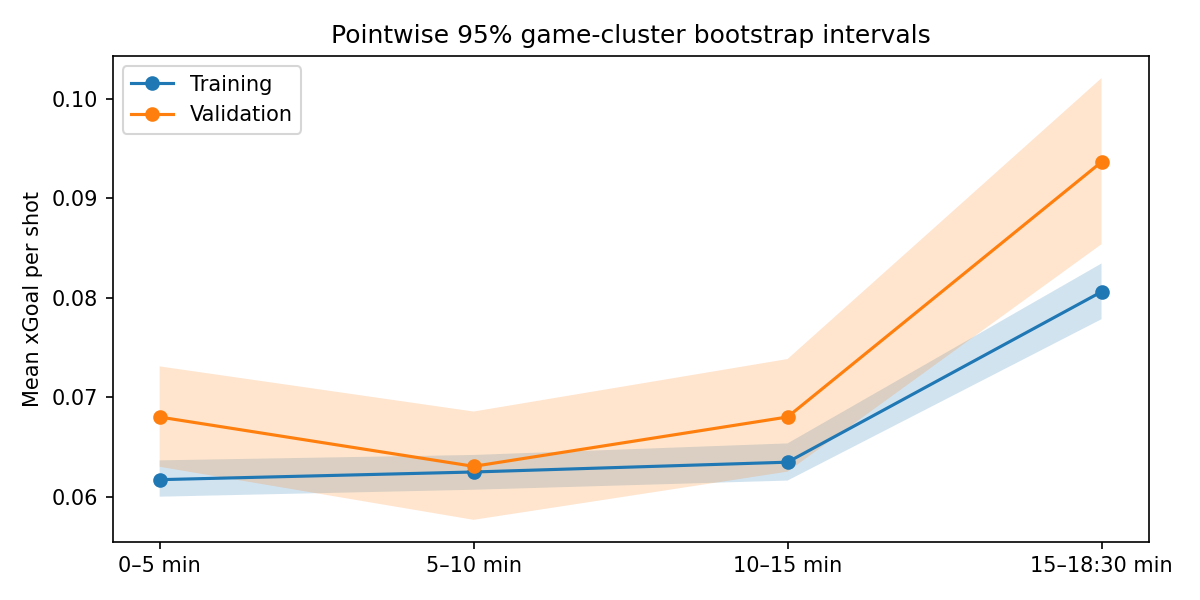
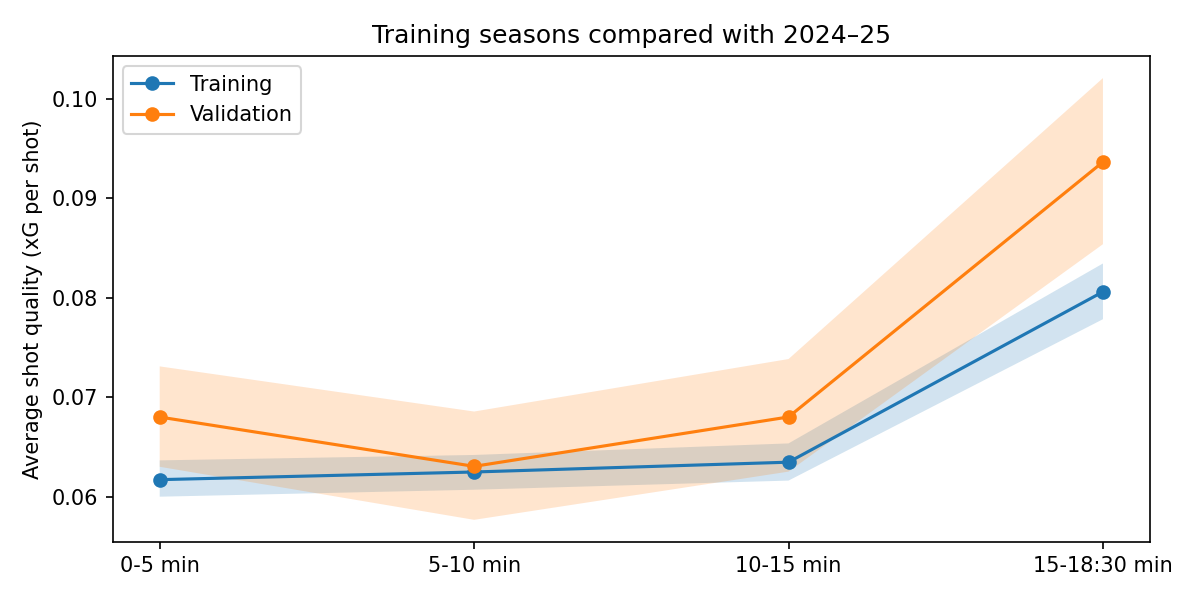
Use plain language in plot titles and labels

diff --git a/src/talk_sensitivity.py b/src/talk_sensitivity.py
@@ -134,8 +134,8 @@ def analyze(full, output):
     x = np.arange(len(WINDOW_LABELS))
     width = 0.36
     fig, ax = plt.subplots(figsize=(8.5, 4.8))
-    b1 = ax.bar(x - width / 2, vol_pct, width, label="Shot volume (shots / game / min)", color="#4C78A8")
-    b2 = ax.bar(x + width / 2, qual_pct, width, label="Shot quality (mean xGoal / shot)", color="#E45756")
+    b1 = ax.bar(x - width / 2, vol_pct, width, label="Shots per game per minute of window", color="#4C78A8")
+    b2 = ax.bar(x + width / 2, qual_pct, width, label="Average shot quality (xG per shot)", color="#E45756")
     ax.axhline(0, color="black", linewidth=0.8)
     for bar in list(b1) + list(b2):
         h = bar.get_height()
@@ -145,8 +145,8 @@ def analyze(full, output):
                 ha="center", va=va, fontsize=9, fontweight="bold")
     ax.set_xticks(x)
     ax.set_xticklabels(WINDOW_LABELS)
-    ax.set_ylabel("Change relative to 0–5 min (%)")
-    ax.set_title("Trailing by 2 in Period 3: Quality Jumps While Volume Barely Moves")
+    ax.set_ylabel("Change from the first five minutes (%)")
+    ax.set_title("How shots change while a team trails by two")
     ax.set_ylim(min(vol_pct.min(), -5) - 4, qual_pct.max() + 7)
     ax.legend(frameon=False, loc="upper left")
     _style_axis(ax)
@@ -161,22 +161,22 @@ def analyze(full, output):
     mean, std = predict_latent(gp_recent, grid)
     recent_row = manpower_df[(manpower_df.era == "recent") & (manpower_df.stratum == "all_situations")].iloc[0]
     fig, ax = plt.subplots(figsize=(8.5, 4.8))
-    ax.plot(grid, mean, color="#1f77b4", linewidth=2.4, label="GP latent mean (2022–24)")
+    ax.plot(grid, mean, color="#1f77b4", linewidth=2.4, label="Estimated shot quality")
     ax.fill_between(grid, mean - 1.96 * std, mean + 1.96 * std, color="#1f77b4", alpha=0.18,
-                    label="Pointwise 95% latent interval")
+                    label="95% uncertainty at each time")
     ax.errorbar(tr_b.midpoint, tr_b.mean_xG, yerr=1.96 * np.sqrt(tr_b.se_sq),
-                fmt="o", color="#1f77b4", alpha=0.75, markersize=5, label="Training bins (2022–24)")
+                fmt="o", color="#1f77b4", alpha=0.75, markersize=5, label="2022–23 and 2023–24 averages")
     ax.scatter(va_b.midpoint, va_b.mean_xG, color="#d62728", marker="^", s=55, zorder=5,
-               label="Held-out 2024–25 bins")
+               label="2024–25 averages")
     ax.text(0.03, 0.94,
-            f"Length scale: {recent_row.length_scale_s:.0f} s\n"
-            f"Held-out RMSE: {recent_row.val_rmse:.5f}\n"
-            f"95% PI coverage: {int(round(recent_row.val_coverage_pct * 19 / 100))}/19 bins",
+            f"Fitted time scale: {recent_row.length_scale_s:.0f} s\n"
+            f"2024–25 prediction error (RMSE): {recent_row.val_rmse:.5f}\n"
+            f"Within 95% prediction intervals: {int(round(recent_row.val_coverage_pct * 19 / 100))}/19 averages",
             transform=ax.transAxes, va="top", fontsize=9.5,
             bbox=dict(boxstyle="round,pad=0.4", facecolor="white", edgecolor="#cccccc", alpha=0.9))
-    ax.set(xlim=(0, PULL_CUTOFF), xlabel="Seconds into third period", ylabel="Mean xGoal per shot",
-           title="Recent-Era GP Trajectory Generalizes to 2024–25")
-    ax.legend(frameon=False, loc="lower right", fontsize=9)
+    ax.set(xlim=(0, PULL_CUTOFF), xlabel="Seconds into third period", ylabel="Average shot quality (xG per shot)",
+           title="Comparing the recent-season fit with 2024–25")
+    ax.legend(frameon=True, loc="upper left", bbox_to_anchor=(0.02, 0.73), fontsize=8)
     _style_axis(ax)
     fig.tight_layout()
     fig.savefig(figdir / "slide2_gp_recent_fit.png", dpi=300)
@@ -201,18 +201,18 @@ def analyze(full, output):
     fig, ax = plt.subplots(figsize=(8.5, 4.5))
     early_vals = [comp_df[(comp_df.era == "early") & (comp_df.model == m)].rmse.iloc[0] for m in models_order]
     recent_vals = [comp_df[(comp_df.era == "recent") & (comp_df.model == m)].rmse.iloc[0] for m in models_order]
-    ax.barh(y_pos + h / 2, early_vals, h, label="Trained on Early (2014–22)", color="#9ecae1")
-    ax.barh(y_pos - h / 2, recent_vals, h, label="Trained on Recent (2022–24)", color="#1f77b4")
+    ax.barh(y_pos + h / 2, early_vals, h, label="Fitted to 2014–15 through 2021–22", color="#9ecae1")
+    ax.barh(y_pos - h / 2, recent_vals, h, label="Fitted to 2022–23 and 2023–24", color="#1f77b4")
     for idx, (ev, rv) in enumerate(zip(early_vals, recent_vals)):
         ax.text(ev + 0.0002, idx + h / 2, f"{ev:.5f}", va="center", fontsize=8.5)
         ax.text(rv + 0.0002, idx - h / 2, f"{rv:.5f}", va="center", fontsize=8.5, fontweight="bold")
     ax.set_yticks(y_pos)
     ax.set_yticklabels(models_order)
     ax.invert_yaxis()
-    ax.set_xlabel("Held-out 2024–25 RMSE (lower is better)")
-    ax.set_title("Matérn 5/2 GP Outperforms Parametric Baselines Out-of-Sample")
+    ax.set_xlabel("2024–25 prediction error (RMSE; lower is better)")
+    ax.set_title("Which model predicts 2024–25 more accurately?")
     ax.set_xlim(0, max(early_vals) * 1.2)
-    ax.legend(frameon=False, loc="lower right")
+    ax.legend(frameon=False, loc="lower right", fontsize=8)
     _style_axis(ax)
     fig.tight_layout()
     fig.savefig(figdir / "slide3_model_comparison.png", dpi=300)
@@ -222,26 +222,26 @@ def analyze(full, output):
     fig, (ax1, ax2) = plt.subplots(1, 2, figsize=(12, 4.6))
     stratum_styles = {
         "all_situations": ("All situations", "#1f77b4", "-"),
-        "goalie_in_net": ("Goalie in net (excl. 6v5)", "#ff7f0e", "--"),
-        "five_on_five": ("5v5 even strength only", "#2ca02c", "-."),
+        "goalie_in_net": ("Trailing team's goalie in net", "#ff7f0e", "--"),
+        "five_on_five": ("Five-on-five play", "#2ca02c", "-."),
     }
     for sname, (label, color, ls) in stratum_styles.items():
         if sname in recent_gps:
             m, _ = predict_latent(recent_gps[sname], grid)
             ax1.plot(grid, m, color=color, linestyle=ls, linewidth=2.2, label=label)
-    ax1.set(xlim=(0, PULL_CUTOFF), xlabel="Seconds into third period", ylabel="Mean xGoal per shot",
-            title="Recent Era: Late Rise Is Driven by Goalie Pulls / Manpower")
+    ax1.set(xlim=(0, PULL_CUTOFF), xlabel="Seconds into third period", ylabel="Average shot quality (xG per shot)",
+            title="Shot quality in different game situations")
     ax1.legend(frameon=False, loc="upper left", fontsize=9)
     _style_axis(ax1)
 
     ax2.plot(boundary_df.recent_start_year, boundary_df.val_rmse, marker="o", color="#1f77b4", linewidth=2.2)
     chosen = boundary_df[boundary_df.recent_start_year == 2022].iloc[0]
     ax2.scatter([chosen.recent_start_year], [chosen.val_rmse], color="#d62728", s=90, zorder=5,
-                label="Chosen split (2022–23)")
+                label="Current starting season: 2022–23")
     ax2.set_xticks(boundary_df.recent_start_year)
     ax2.set_xticklabels([f"{y}-{str(y + 1)[-2:]}" for y in boundary_df.recent_start_year])
-    ax2.set(xlabel="Recent-era start season", ylabel="Held-out 2024–25 RMSE",
-            title="Era-Boundary Sensitivity (2024–25 Holdout)")
+    ax2.set(xlabel="First season used for the recent fit", ylabel="2024–25 prediction error (RMSE)",
+            title="How the starting season affects predictions")
     ax2.legend(frameon=False, loc="upper right", fontsize=9)
     _style_axis(ax2)
 

diff --git a/src/decomposition.py b/src/decomposition.py
@@ -87,23 +87,23 @@ def analyze(full, output):
     # clock-window duration; mean xG is already a per-shot quantity.
     x = np.arange(4)
     columns = ["shots_per_game_per_window_minute", "mean_xG", "xG_per_game_per_window_minute"]
-    labels = ["Shots / sampled game / window minute", "Mean xGoal per shot", "xG / sampled game / window minute"]
+    labels = ["Shots per sampled game\nper minute of window", "Average shot quality (xG per shot)", "Expected goals per sampled game\nper minute of window"]
     fig, axes = plt.subplots(1, 3, figsize=(15, 4))
     for ax, col, label in zip(axes, columns, labels):
         ax.bar(x, pooled[col])
         ax.set_xticks(x, WINDOW_LABELS, rotation=20)
         ax.set_ylabel(label)
-    fig.suptitle("Comeback shots: clock-window summaries, not time-at-risk rates")
+    fig.suptitle("Shots and chance quality through the third period")
     fig.tight_layout()
     fig.savefig(figdir / "fig1_decomposition_bars.png", dpi=150)
     plt.close(fig)
 
     # Indexed plot: each series is relative to its OWN first-window value.
     fig, ax = plt.subplots(figsize=(8, 4))
-    for col, label in zip(columns, ["Window-normalized shot volume", "Shot quality", "Window-normalized xG"]):
+    for col, label in zip(columns, ["Shots per game per minute of window", "Shot quality", "Expected goals per game per minute of window"]):
         ax.plot(x, pooled["idx_" + col], "o-", label=label)
     ax.set_xticks(x, WINDOW_LABELS)
-    ax.set_ylabel("Index relative to first window")
+    ax.set_ylabel("Relative to the first five minutes (1 = unchanged)")
     ax.legend()
     fig.tight_layout()
     fig.savefig(figdir / "fig2_indexed_trajectories.png", dpi=150)
@@ -115,7 +115,7 @@ def analyze(full, output):
     im = ax.imshow(pivot, aspect="auto", cmap="YlOrRd")
     ax.set_xticks(x, WINDOW_LABELS)
     ax.set_yticks(range(len(pivot)), pivot.index)
-    fig.colorbar(im, ax=ax, label="Mean xGoal per shot")
+    fig.colorbar(im, ax=ax, label="Average shot quality (xG per shot)")
     fig.tight_layout()
     fig.savefig(figdir / "fig_season_heatmap.png", dpi=150)
     plt.close(fig)
@@ -128,8 +128,8 @@ def analyze(full, output):
         ax.fill_between(x, comparison[prefix + "_ci_lo"].to_numpy(),
                         comparison[prefix + "_ci_hi"].to_numpy(), alpha=.2)
     ax.set_xticks(x, WINDOW_LABELS)
-    ax.set_ylabel("Mean xGoal per shot")
-    ax.set_title("Pointwise 95% game-cluster bootstrap intervals")
+    ax.set_ylabel("Average shot quality (xG per shot)")
+    ax.set_title("Training seasons compared with 2024–25")
     ax.legend()
     fig.tight_layout()
     fig.savefig(figdir / "fig5_validation.png", dpi=150)

diff --git a/src/GP_regression.py b/src/GP_regression.py
@@ -49,17 +49,17 @@ def analyze(full, output):
         validations.append(validation)
 
         fig, ax = plt.subplots(figsize=(9, 5))
-        ax.plot(grid, mean, label="GP latent mean")
+        ax.plot(grid, mean, label="Estimated shot quality")
         ax.fill_between(grid, mean - 1.96 * std, mean + 1.96 * std, alpha=.2,
-                        label="Pointwise 95% latent interval")
+                        label="95% uncertainty at each time")
         # Symmetric normal-approximation error bars based on bootstrap SEs;
         # these are not necessarily the bootstrap percentile intervals.
         ax.errorbar(bins[era].midpoint, bins[era].mean_xG,
-                    yerr=1.96 * np.sqrt(bins[era].se_sq), fmt="o", label="Training bins ± 1.96 bootstrap SE")
+                    yerr=1.96 * np.sqrt(bins[era].se_sq), fmt="o", label="Training averages with uncertainty")
         ax.errorbar(valid.midpoint, valid.mean_xG, yerr=1.96 * np.sqrt(valid.se_sq),
-                    fmt="^", label="2024–25 bins ± 1.96 bootstrap SE")
-        ax.set(xlabel="Seconds into third period", ylabel="Mean xGoal per shot",
-               title=f"GP fit: {titles[era]}", xlim=(0, PULL_CUTOFF))
+                    fmt="^", label="2024–25 averages with uncertainty")
+        ax.set(xlabel="Seconds into third period", ylabel="Average shot quality (xG per shot)",
+               title=f"Shot quality over time: {titles[era]}", xlim=(0, PULL_CUTOFF))
         ax.legend(fontsize=8)
         fig.tight_layout()
         name = "fig6a_gp_early.png" if era == "early" else "fig6b_gp_recent.png"
@@ -73,8 +73,8 @@ def analyze(full, output):
     for era, (mean, std) in curves.items():
         ax.plot(grid, mean, label=titles[era])
         ax.fill_between(grid, mean - 1.96 * std, mean + 1.96 * std, alpha=.2)
-    ax.set(xlabel="Seconds into third period", ylabel="Mean xGoal per shot",
-           title="Era comparison: pointwise 95% latent intervals")
+    ax.set(xlabel="Seconds into third period", ylabel="Average shot quality (xG per shot)",
+           title="Shot quality in earlier and recent seasons")
     ax.legend()
     fig.tight_layout()
     fig.savefig(figdir / "fig7_gp_comparison.png", dpi=150)

diff --git a/src/results.py b/src/results.py
@@ -100,8 +100,8 @@ def analyze(full, output):
         # Gaps from the lines describe prediction discrepancies; this plot alone
         # cannot distinguish underfitting from sampling variation or season shifts.
         # Assess underfitting with training fit/residuals as well as later errors.
-        ax.scatter(valid.midpoint, valid.mean_xG, color="black", label="2024-25 observed bins")
-        ax.set(xlabel="Seconds into third period", ylabel="Mean xGoal", title=f"Validation predictions: {era}")
+        ax.scatter(valid.midpoint, valid.mean_xG, color="black", label="2024–25 averages")
+        ax.set(xlabel="Seconds into third period", ylabel="Average shot quality (xG per shot)", title=f"Predicting 2024–25 from {era} seasons")
         ax.legend(fontsize=8)
         fig.tight_layout()
         fig.savefig(figdir / f"model_comparison_{era}.png", dpi=150)
@@ -118,11 +118,11 @@ def analyze(full, output):
                       "ratio_hi": high, "exponential_rate": exponential_rate}).to_csv(
                           output / f"derivative_ratio_{era}.csv", index=False)
         fig, ax = plt.subplots(figsize=(9, 4))
-        ax.plot(grid, median, label="GP f'/f posterior median")
-        ax.fill_between(grid, low, high, alpha=.2, label="Pointwise 95% posterior interval")
-        ax.axhline(exponential_rate, linestyle="--", color="red", label="Fitted exponential rate (point estimate)")
-        ax.set(xlabel="Seconds into third period", ylabel="f'/f (per second)",
-               title=f"Descriptive shape comparison: {era}")
+        ax.plot(grid, median, label="Estimated proportional rate of change")
+        ax.fill_between(grid, low, high, alpha=.2, label="95% uncertainty at each time")
+        ax.axhline(exponential_rate, linestyle="--", color="red", label="Rate implied by the exponential fit")
+        ax.set(xlabel="Seconds into third period", ylabel="Proportional change per second",
+               title=f"How quickly shot quality changes: {era} seasons")
         ax.legend(fontsize=8)
         fig.tight_layout()
         fig.savefig(figdir / f"derivative_ratio_{era}.png", dpi=150)

diff --git a/src/diagnostic_shot_location.py b/src/diagnostic_shot_location.py
@@ -88,8 +88,8 @@ def analyze(full, output):
     vmax = max(h.max() for h in histograms.values())
     for ax, (era, hist) in zip(axes, histograms.items()):
         im = ax.pcolormesh(*edges, hist.T, cmap="YlOrRd", vmin=0, vmax=vmax)
-        ax.set(title=era.title(), xlabel="Adjusted X (ft)", ylabel="Adjusted Y (ft)", aspect="equal")
-    fig.colorbar(im, ax=axes, label="Percent of era's shots with coordinates in rink bounds")
+        ax.set(title=era.title(), xlabel="Position along the rink (adjusted feet)", ylabel="Position across the rink (adjusted feet)", aspect="equal")
+    fig.colorbar(im, ax=axes, label="Share of shots with recorded locations inside the rink (%)")
     figdir = output / "figures"
     figdir.mkdir(exist_ok=True)
     fig.savefig(figdir / "shot_location_heatmap.png", dpi=150)
